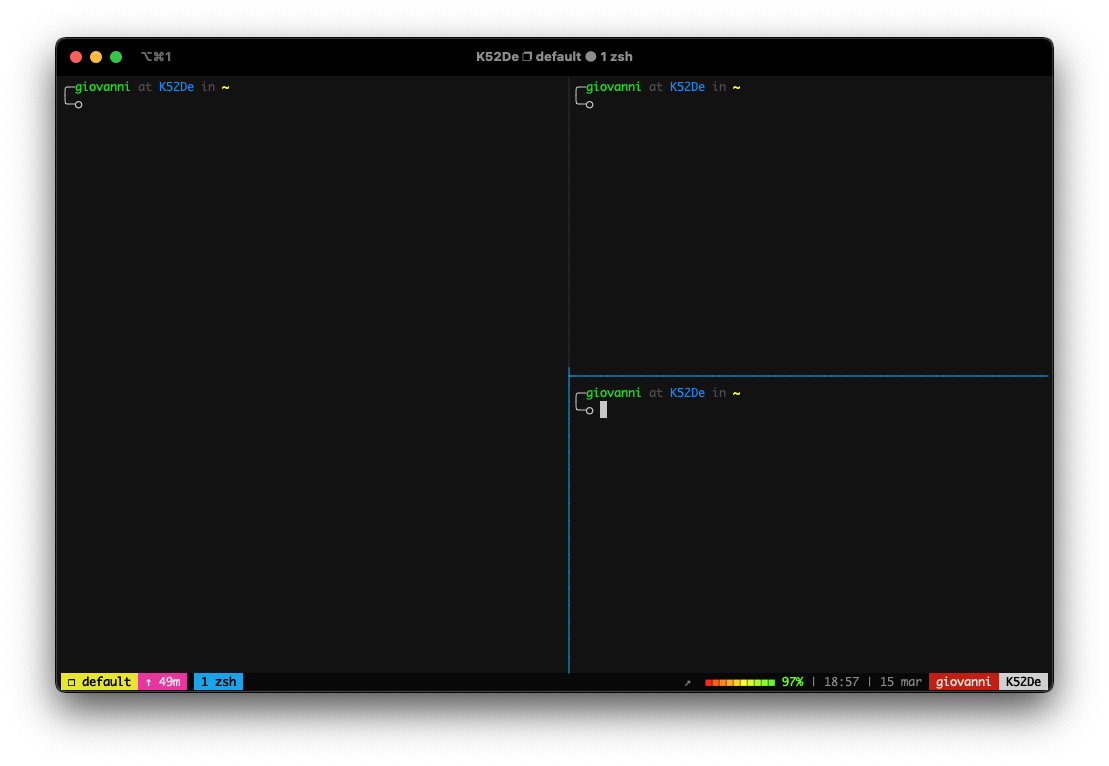
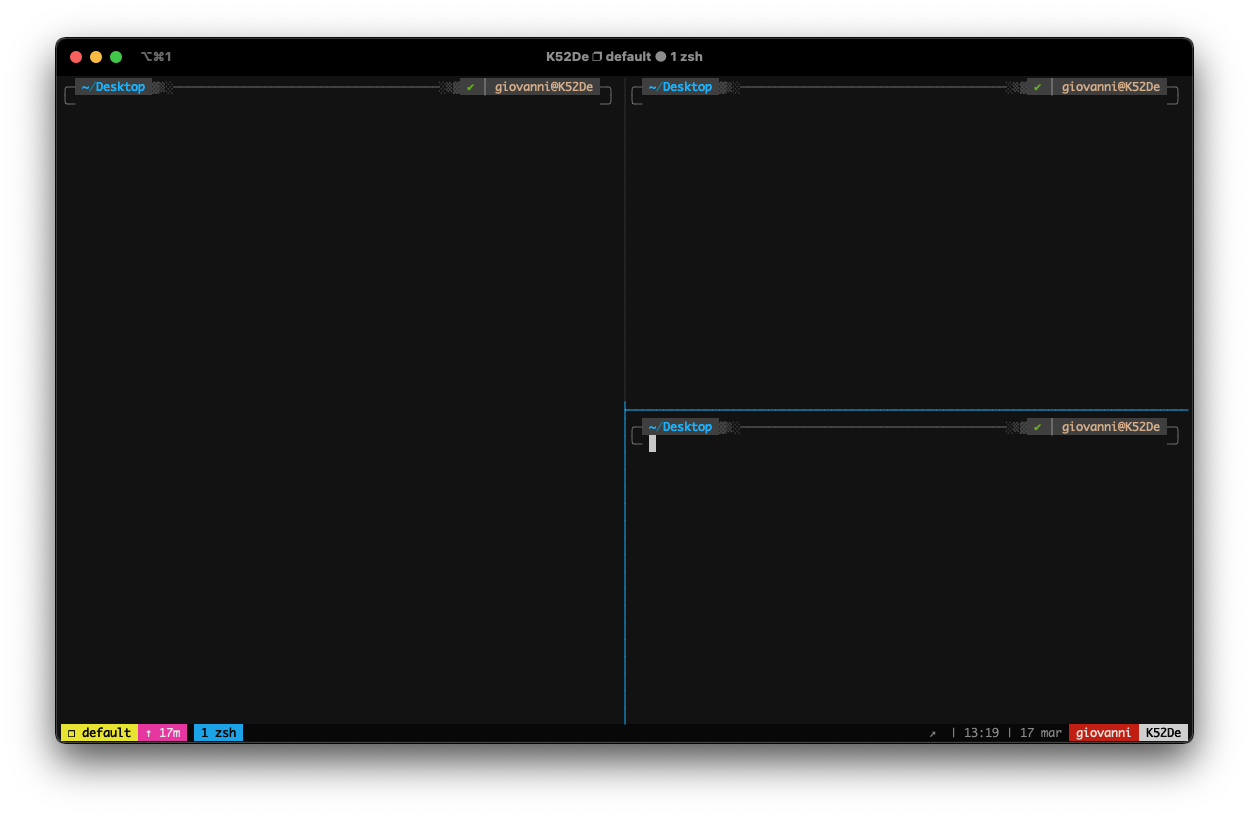
ZSH theme change

Changed region(s): [[0.0307, 0.03, 0.9811, 0.9308]]

diff --git a/README.md b/README.md
@@ -48,6 +48,7 @@ To clone the repo and start the installation scripts use the following commands:
 ```bash
 git clone https://github.com/GiovanniBaccichet/dotfiles ~/.dotfiles
 sudo bash ~/.dotfiles/install/copy_all.sh
+git clone --depth=1 https://gitee.com/romkatv/powerlevel10k.git ${ZSH_CUSTOM:-$HOME/.oh-my-zsh/custom}/themes/powerlevel10k
 ```
 
 <!-- CONTRIBUTE -->
